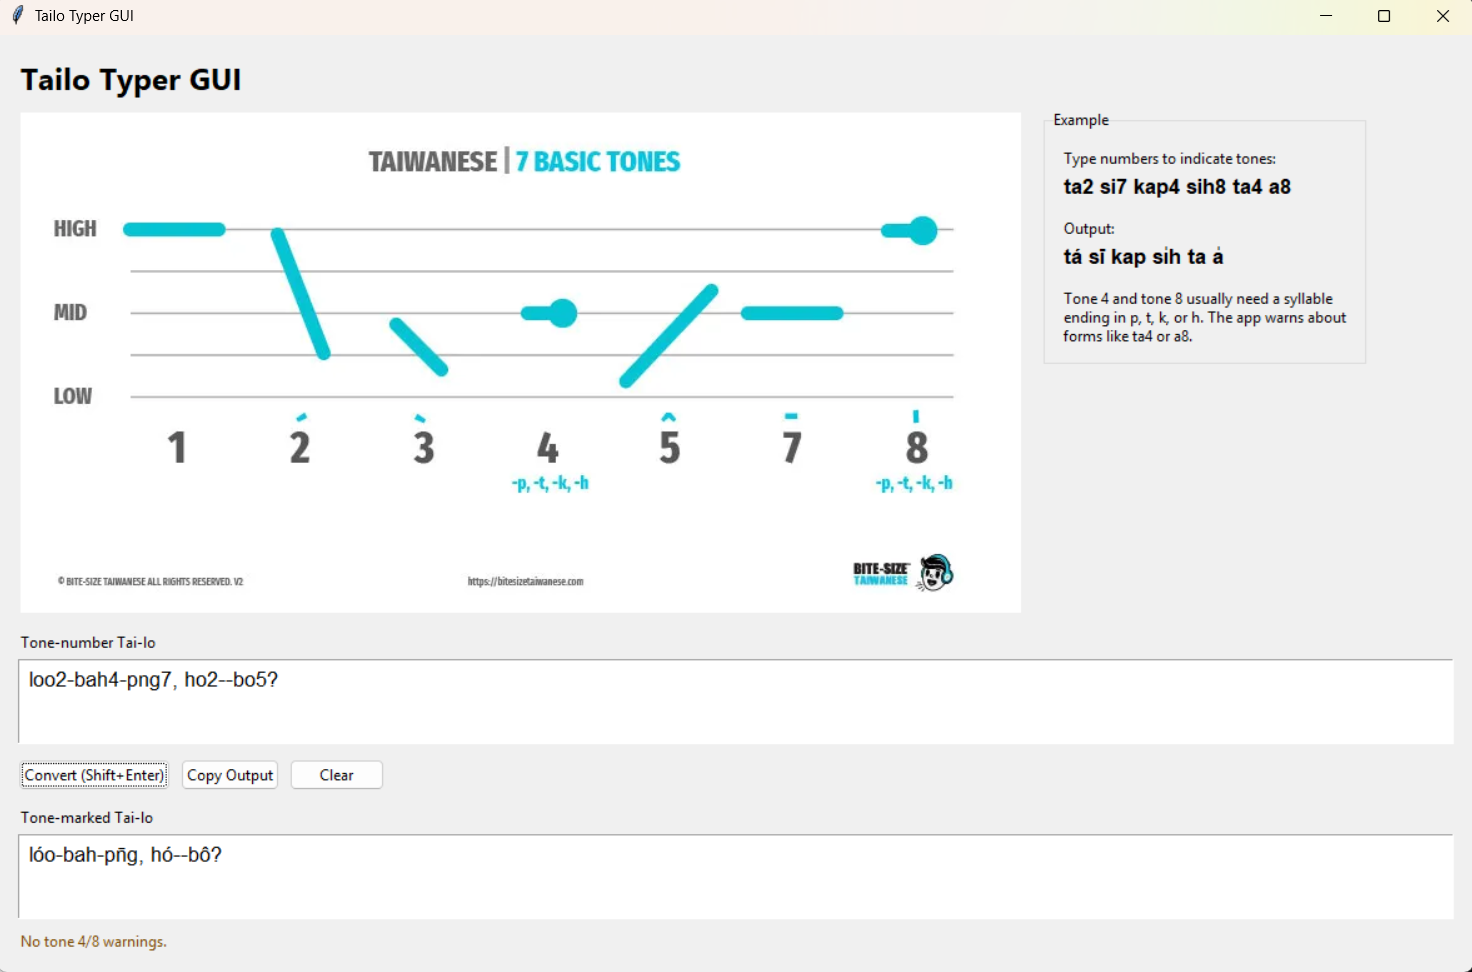
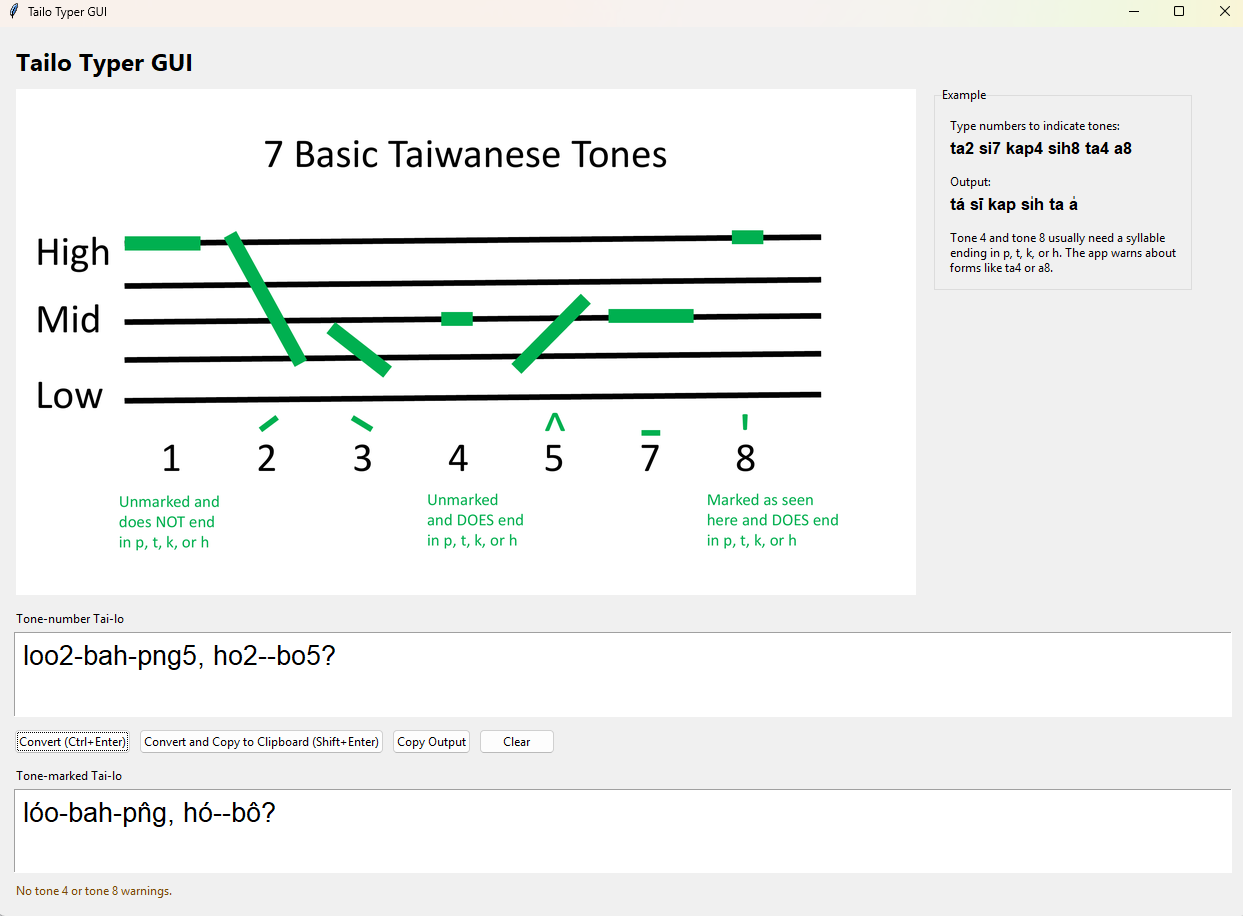
Update tones graphic and screenshot

diff --git a/src/gui_app.py b/src/gui_app.py
@@ -20,7 +20,7 @@ except ImportError:
 
 
 PROJECT_ROOT = Path(__file__).resolve().parent.parent
-TONE_CHART_PATH = PROJECT_ROOT / "Basic-Tones_v2.png"
+TONE_CHART_PATH = PROJECT_ROOT / "Taiwanese_Tones_Graphic_gui.png"
 TONE_4_8_PATTERN = re.compile(r"\b([A-Za-z]+)([48])\b")
 TONE_4_8_FINALS = ("p", "t", "k", "h")
 
@@ -31,7 +31,7 @@ class TaiLoTyperApp(tk.Tk):
         super().__init__()
 
         self.title("Tailo Typer GUI")
-        self.minsize(1180, 700)
+        self.minsize(1180, 740)
         self.tone_chart_image: tk.PhotoImage | None = None
         self.text_font = self._choose_text_font()
         self.status_message = tk.StringVar(
@@ -51,9 +51,9 @@ class TaiLoTyperApp(tk.Tk):
             "Segoe UI",
         ):
             if font_name in available_fonts:
-                return (font_name, 13)
+                return (font_name, 20)
 
-        return ("TkDefaultFont", 13)
+        return ("TkDefaultFont", 20)
 
     def _build_layout(self) -> None:
         self.columnconfigure(0, weight=1)
@@ -157,7 +157,7 @@ class TaiLoTyperApp(tk.Tk):
 
     def _add_tone_chart(self, parent: ttk.Frame) -> None:
         if not TONE_CHART_PATH.exists():
-            ttk.Label(parent, text="Basic tones chart image not found.").grid(
+            ttk.Label(parent, text="Taiwanese tones graphic image not found.").grid(
                 row=0,
                 column=0,
                 sticky="w",
@@ -167,7 +167,7 @@ class TaiLoTyperApp(tk.Tk):
         try:
             source_image = tk.PhotoImage(file=str(TONE_CHART_PATH))
         except tk.TclError:
-            ttk.Label(parent, text="Basic tones chart could not be loaded.").grid(
+            ttk.Label(parent, text="Taiwanese tones graphic could not be loaded.").grid(
                 row=0,
                 column=0,
                 sticky="w",
@@ -307,4 +307,7 @@ def main() -> None:
 
 if __name__ == "__main__":
     main()
+
+
+
 

diff --git a/README.md b/README.md
@@ -24,9 +24,11 @@ Keep these files together in the same folder:
 
 ```text
 tailo-typer-gui
-├── Basic-Tones_v2.png
 ├── README.md
 ├── Screenshot-v3.png
+├── Taiwanese_Tones_Graphic.pdf
+├── Taiwanese_Tones_Graphic.png
+├── Taiwanese_Tones_Graphic_gui.png
 └── src
     ├── __init__.py
     ├── gui_app.py
@@ -37,7 +39,9 @@ The most important files are:
 
 - `src\gui_app.py`: the Windows desktop app.
 - `src\tailo_converter.py`: the conversion engine.
-- `Basic-Tones_v2.png`: the tones chart shown in the app.
+- `Taiwanese_Tones_Graphic.pdf`: the source PDF for the tones graphic shown in the app.
+- `Taiwanese_Tones_Graphic.png`: the full-size rendered tones graphic image.
+- `Taiwanese_Tones_Graphic_gui.png`: the resized tones graphic image shown in the app.
 - `README.md`: these instructions.
 
 Do not move `gui_app.py` away from the `src` folder unless you know how to update the file paths.
@@ -280,10 +284,11 @@ If `python` is also not recognized, install Python from the official website:
 Make sure this file is still in the main project folder:
 
 ```text
-Basic-Tones_v2.png
+Taiwanese_Tones_Graphic.png
+Taiwanese_Tones_Graphic_gui.png
 ```
 
-The app expects the image to be next to `README.md`, not inside the `src` folder.
+The app expects `Taiwanese_Tones_Graphic_gui.png` to be next to `README.md`, not inside the `src` folder.
 
 ### The App Opens But Conversion Looks Wrong
 
@@ -333,7 +338,8 @@ That means your friends can see the Python files before running them.
 To share it, send the whole `tailo-typer-gui` folder, including:
 
 ```text
-Basic-Tones_v2.png
+Taiwanese_Tones_Graphic.png
+Taiwanese_Tones_Graphic_gui.png
 README.md
 src\gui_app.py
 src\tailo_converter.py
@@ -387,6 +393,8 @@ AUTHORS OR COPYRIGHT HOLDERS BE LIABLE FOR ANY CLAIM, DAMAGES OR OTHER
 LIABILITY, WHETHER IN AN ACTION OF CONTRACT, TORT OR OTHERWISE, ARISING FROM,
 OUT OF OR IN CONNECTION WITH THE SOFTWARE OR THE USE OR OTHER DEALINGS IN THE
 SOFTWARE.
+
+
 
 
 
